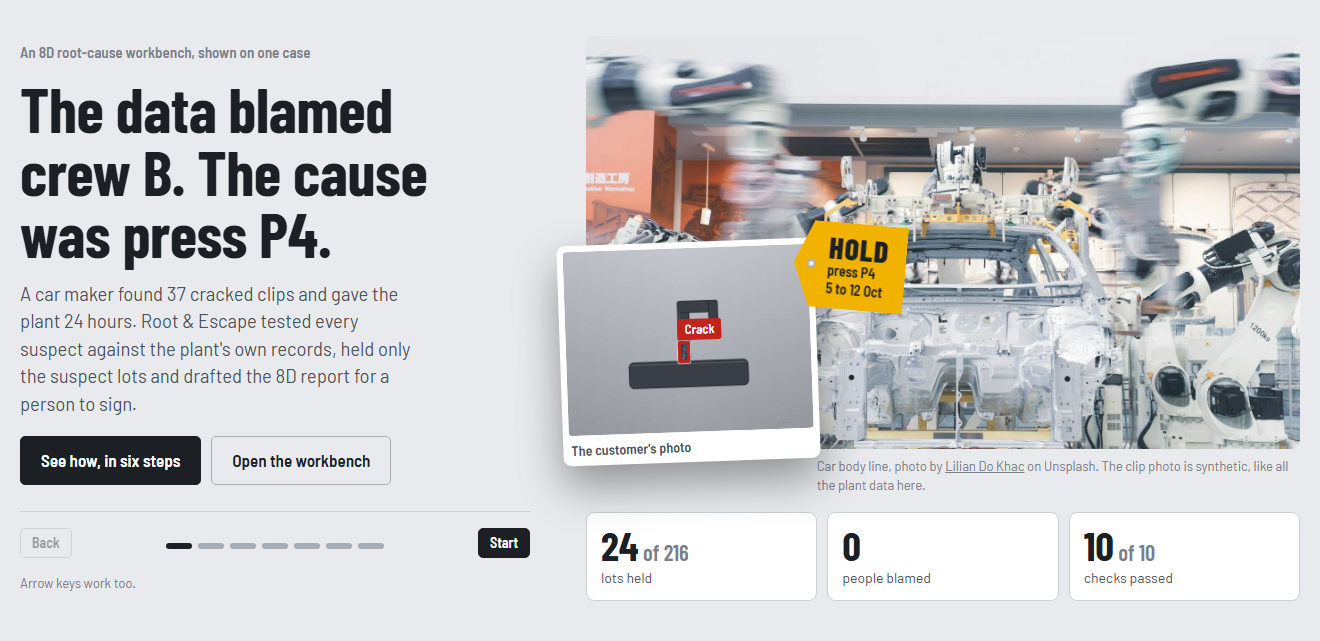
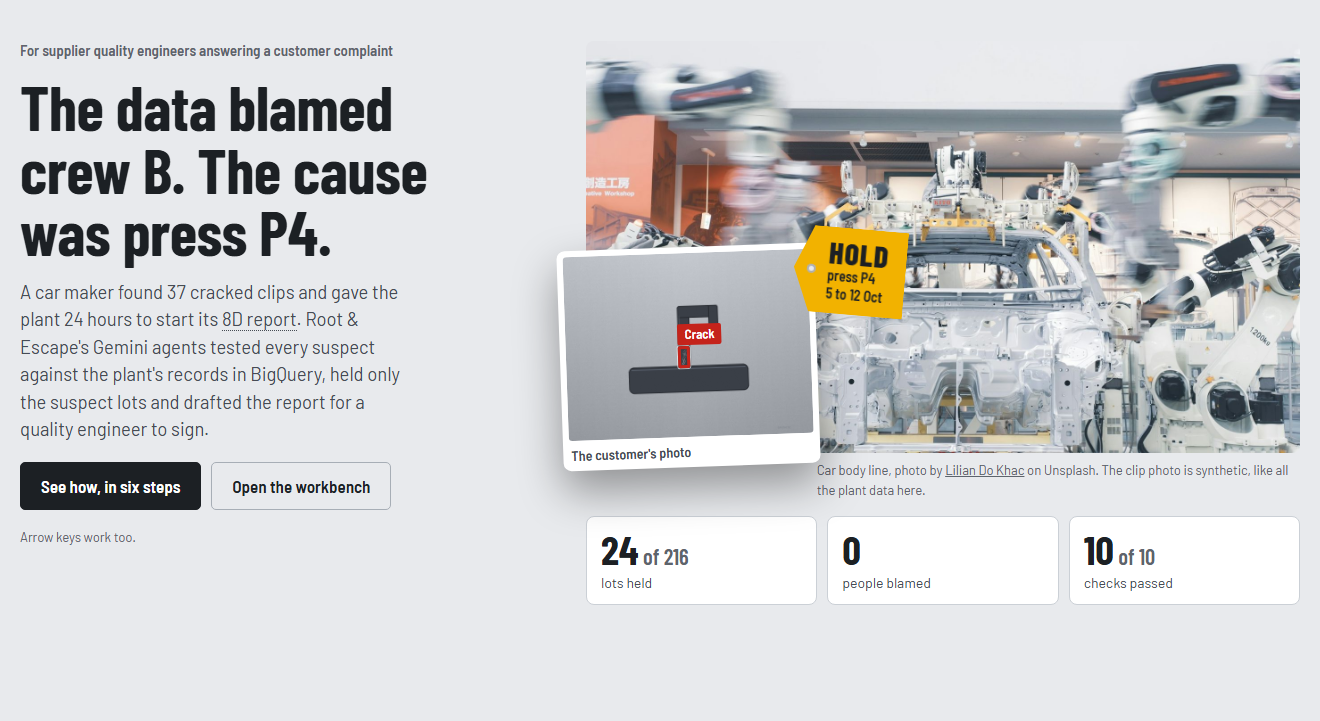
Fixes from a cold judge review of the front page
- Every step now says which agent and tool produced it, with its
  evidence ID, so the Gemini and BigQuery work is visible.
- Step 2 waits for the guess, and quotes the gap inside P4 (3.6% vs
  4.5%) with why it doesn't count.
- The nav stays in one place; the cover drops the duplicate Start and
  shows its buttons above the photo on phones; no sideways scroll.
- Control chart: tighter scale, a labelled crack-rate panel, a narrower
  drawing on phones.
- 8D sheet: whole first sentences, one D4 label, evidence chips and an
  English / Japanese toggle.
- Muted text and the dark-mode alarm labels meet contrast; the lot key
  follows the hold toggle; the live feed no longer shows raw verdicts.

diff --git a/web/story.js b/web/story.js
@@ -7,7 +7,9 @@
   const $ = (s) => document.querySelector(s);
   const esc = R.esc;
   const pc = (x, d = 1) => (x == null ? "–" : (x * 100).toFixed(d) + "%");
+  const pcs = (x) => (x == null ? "–" : (x * 100).toFixed(x < 0.01 ? 3 : 2) + "%");
   const num = (n) => Number(n).toLocaleString("en-US");
+  const nb = (s) => String(s).replace(/(\d) (°C|%)/g, "$1\u00a0$2");
   const still = () => window.matchMedia && matchMedia("(prefers-reduced-motion: reduce)").matches;
   const MONTHS = ["Jan", "Feb", "Mar", "Apr", "May", "Jun", "Jul", "Aug", "Sep", "Oct", "Nov", "Dec"];
   const day = (iso) => { const d = new Date(String(iso).slice(0, 10) + "T00:00:00Z"); return `${d.getUTCDate()} ${MONTHS[d.getUTCMonth()]}`; };
@@ -15,8 +17,32 @@
   const minus = (v) => (v < 0 ? "−" + Math.abs(v) : String(v));
   const CASE = "118";
 
-  const VIS = $("#st-vis"), H = $("#st-h"), P = $("#st-p"), ACT = $("#st-act"), COUNT = $("#st-count"), DOTS = $("#st-dots"), ART = $("#st-art");
-  let f = null, at = 0, split = false, guess = null, holdAll = false, mailLang = "en", series = null;
+  const VIS = $("#st-vis"), H = $("#st-h"), P = $("#st-p"), ACT = $("#st-act"), COUNT = $("#st-count"), DOTS = $("#st-dots"), ART = $("#st-art"), BY = $("#st-by");
+  let f = null, at = 0, split = false, guess = null, holdAll = false, mailLang = "en", series = null, sheetLang = "en";
+
+  // Which agent, tool and evidence produced what is on screen, so the Gen AI work is visible on every step.
+  function credit(i) {
+    const m = f.modes, model = esc(f.model || "Gemini"), code = (t) => `<code>${esc(t)}</code>`;
+    const ev = (id) => (id ? ` <a class="evref" href="#118" data-ev-open="${esc(id)}">${esc(id)}</a>` : "");
+    const inv = m.investigation === "gemini" ? `Investigator agent on ${model} through ADK` : "Investigator, scripted (Gemini off)";
+    return ({
+      1: m.intake === "gemini" ? `Intake agent on ${model}: translated the email, filled in the four facts and drew the box.` : "Intake: the stored reading (Gemini off).",
+      2: `${inv} called ${code("stratify")} by crew within press${ev(f.crewId)}.` + (f.bqml ? ` BigQuery ML contribution analysis had already pointed at press ${esc(f.press)}.` : ""),
+      3: `${inv} called ${code("param_excursions")}${ev(f.dewId)} and ${code("inspection_changes")}${ev(f.inspId)} for ${esc(f.press)}.`,
+      4: `${inv} called ${code("containment")} over the shipments table${ev(f.holdId)}.`,
+      5: `The Challenger is ${f.checks || "a set of"} rules in code. ` + (f.gemini ? `Claims that pass them also go to a critic on ${model}.` : "In the cloud, claims that pass also go to a Gemini critic."),
+      6: m.writer === "gemini" ? `Writer agent on ${model}: every percentage and lot count it wrote was checked against the evidence.` : "Writer: template text (Gemini off).",
+    })[i] || "";
+  }
+
+  // Step 2's caption: the gap inside the faulty press, in numbers, and why it doesn't count.
+  function insideP4() {
+    const o = f.cd.overall_contrast, st = f.cd.strata.find((s) => s.press === f.press), sh = shares().top;
+    const hi = st && st.cells.find((c) => c.crew === o.high);
+    const lo = st && st.cells.filter((c) => c.crew !== o.high).sort((a, b) => b.units - a.units)[0];
+    const gap = hi && lo ? ` On ${f.press}, crew ${lo.crew} is at ${pc(lo.rate)} and crew ${o.high} at ${pc(hi.rate)}, a gap the test can't tell from chance.` : "";
+    return `Every crew cracks clips on ${f.press} and hardly any elsewhere.${gap} Crew ${o.high} just runs ${f.press} the most: ${sh}% of its output.`;
+  }
 
   // ------------------------------------------------------------------------------------- facts from the run
   function facts(d) {
@@ -35,7 +61,9 @@
       dew: dew && ((dew.data || {}).params || []).find((x) => x.flag), dewId: dew && dew.id,
       insp: insp && ((insp.data || {}).sampling_changes || [])[0], inspId: insp && insp.id,
       hold: r.containment, occ: (dr.occurrence || {}).statement || "", escTxt: (dr.escape || {}).statement || "",
-      report: (r.report || {}).en || {}, checks: last.rules.length,
+      report: (r.report || {}).en || {}, reportJa: (r.report || {}).ja || null, checks: last.rules.length,
+      modes: r.modes || {}, bqml: !!(a.bqml_insights || []).length, holdId: (evOf("containment") || {}).id,
+      occEv: (dr.occurrence || {}).evidence || [], escEv: (dr.escape || {}).evidence || [],
       secs: r.duration_s, gemini: (r.modes || {}).investigation === "gemini", model: r.model,
     };
   }
@@ -43,10 +71,11 @@
   // ------------------------------------------------------------------------------------------- the steps
   const STEPS = [
     () => ({
-      count: "An 8D root-cause workbench, shown on one case",
+      count: "For supplier quality engineers answering a customer complaint",
       h: f.accused && f.press ? `The data blamed crew ${f.accused}. The cause was press ${f.press}.` : "Find the real cause, not the easy one.",
-      p: `A car maker found ${f.bad || "cracked"} cracked clips and gave the plant ${f.hours ? f.hours + " hours" : "a day"}. ` +
-        "Root & Escape tested every suspect against the plant's own records, held only the suspect lots and drafted the 8D report for a person to sign.",
+      p: `A car maker found ${esc(f.bad || "")} cracked clips and gave the plant ${f.hours ? esc(f.hours) + " hours" : "a day"} to start its ${R.term("8d", "8D report")}. ` +
+        "Root & Escape's Gemini agents tested every suspect against the plant's records in BigQuery, held only the suspect lots and drafted the report for a quality engineer to sign.",
+      html: true,
       act: `<button class="btn big" type="button" data-st="1">See how, in six steps</button>
             <button class="btn ghost big" type="button" data-bench="${CASE}">Open the workbench</button>`,
       draw: (el) => { el.innerHTML = hero() + coverFacts(); },
@@ -74,7 +103,7 @@
       return {
         count: "Step 2 of 6: the suspect",
         h: guess === "yes" ? "That's the trap. Split by press, the gap disappears." : guess === "no" ? "Good call. Split by press, the gap disappears." : "Split by press, the gap disappears.",
-        p: `Inside each press the crews crack at about the same rate. Crew ${o.high} just runs press ${f.press} most of the time: ${shares().top}% of its output.`,
+        p: insideP4(),
         act: `<button class="btn ghost" type="button" data-split="0">Show it by crew again</button>`,
         draw: (el) => { el.innerHTML = chart(); },
       };
@@ -121,7 +150,7 @@
       p: "In English and Japanese, with every claim linked to its evidence. A quality engineer signs before it goes out.",
       act: `<button class="btn big" type="button" data-bench="${CASE}">Open the workbench</button>
             <button class="btn ghost big" type="button" data-bench="${CASE}" data-run="1">Run it live${f.gemini ? " with Gemini" : ""}</button>
-            <span class="st-more">Two more cases: <button class="link" type="button" data-bench="124">burrs with two causes</button> and <button class="link" type="button" data-bench="121">scratches with no cause in the data</button>.</span>`,
+            <span class="st-more">Two more cases: <button class="link" type="button" data-bench="124">burrs with two causes</button> and <button class="link" type="button" data-bench="121">scratches with no cause in the data</button>. <button class="link" type="button" data-how>How the agents work</button></span>`,
       draw: (el) => { el.innerHTML = sheet(); },
     }),
   ];
@@ -212,7 +241,7 @@
         }
         acc += w;
       });
-      labels += `<span class="val on-pool" style="left:${mid}%;bottom:calc(${y(o.rate)}% + 6px)">${pc(o.rate, 2)}</span>` +
+      labels += `<span class="val on-pool" style="left:${mid}%;bottom:calc(${y(o.rate)}% + 6px)">${pcs(o.rate)}</span>` +
         `<span class="ax on-pool" style="left:${mid}%">Crew ${esc(cr)}</span>`;
       if (cr === accused) labels += `<span class="alarm on-pool" style="left:calc(${mid}% + ${W / 2}% + 8px);bottom:calc(${y(o.rate)}% - 13px)"><b>${cd.overall_contrast.ratio}×</b> crew ${esc(cd.overall_contrast.low)}'s rate</span>`;
     });
@@ -247,12 +276,12 @@
     const cl = d.control_mean, ucl = cl + 3 * d.control_sd, lcl = cl - 3 * d.control_sd, spec = series.spec_max;
     const t0 = pts[0][0], t1 = pts[pts.length - 1][0] + 864e5 / 3;
     const vals = pts.map((p) => p[1]).concat([ucl, lcl, spec ?? ucl]);
-    const v0 = Math.floor(Math.min(...vals) / 10) * 10, v1 = Math.ceil(Math.max(...vals) / 10) * 10;
-    const W = 640, L = 40, Rm = 92, T = 24, Hc = 170, gap = 26, Hb = 54;
+    const v0 = Math.floor(Math.min(...vals) / 5) * 5, v1 = Math.ceil(Math.max(...vals) / 5) * 5;
+    const narrow = el.clientWidth < 520, W = narrow ? 420 : 640, L = 34, Rm = narrow ? 76 : 92, T = 24, Hc = narrow ? 150 : 170, gap = 34, Hb = 54;
     const X = (t) => L + ((t - t0) / (t1 - t0)) * (W - L - Rm), Y = (v) => T + ((v1 - v) / (v1 - v0)) * Hc;
     const ws = Date.parse(f.c.date_code_start + "T00:00:00Z"), we = Date.parse(f.c.date_code_end + "T00:00:00Z") + 864e5;
     let s = `<rect class="win" x="${X(ws)}" y="${T - 4}" width="${X(we) - X(ws)}" height="${Hc + gap + Hb + 4}"/>`;
-    for (let v = v0; v <= v1; v += 10) s += `<line class="grid" x1="${L}" x2="${W - Rm}" y1="${Y(v)}" y2="${Y(v)}"/><text class="yl" x="${L - 6}" y="${Y(v) + 4}" text-anchor="end">${minus(v)}</text>`;
+    for (let v = Math.ceil(v0 / 10) * 10; v <= v1; v += 10) s += `<line class="grid" x1="${L}" x2="${W - Rm}" y1="${Y(v)}" y2="${Y(v)}"/><text class="yl" x="${L - 6}" y="${Y(v) + 4}" text-anchor="end">${minus(v)}</text>`;
     const ref = (v, cls, name) => `<line class="${cls}" x1="${L}" x2="${W - Rm}" y1="${Y(v)}" y2="${Y(v)}"/><text class="${cls}" x="${W - Rm + 6}" y="${Y(v) + 4}">${name}</text>`;
     s += ref(ucl, "ucl", `UCL ${minus(ucl.toFixed(1))}`) + ref(cl, "cl", `CL ${minus(cl.toFixed(1))}`) + ref(lcl, "ucl", `LCL ${minus(lcl.toFixed(1))}`);
     if (spec != null) s += ref(spec, "spec", `Limit ${minus(spec)}`);
@@ -260,14 +289,14 @@
     s += pts.map(([t, v]) => `<circle class="${v > ucl || v < lcl ? "out" : "in"}" cx="${X(t).toFixed(1)}" cy="${Y(v).toFixed(1)}" r="${v > ucl || v < lcl ? 3 : 1.8}"/>`).join("");
     const by = T + Hc + gap, dr = series.daily_rate.filter(([, r]) => r != null), rmax = Math.max(0.01, ...dr.map(([, r]) => r));
     const base = f.r.analysis && f.r.analysis.overall ? f.r.analysis.overall.rate_control : 0;
-    s += `<text class="lab" x="${L}" y="${by - 8}">${esc(f.press)} crack rate per day</text>`;
+    s += `<line class="sep" x1="${L}" x2="${W - Rm}" y1="${by - gap / 2 - 2}" y2="${by - gap / 2 - 2}"/><text class="lab" x="${L}" y="${by - 4}">${esc(f.press)} crack rate per day, peak ${pc(rmax)}</text>`;
     s += dr.map(([dt, r]) => { const x = X(Date.parse(dt + "T00:00:00Z")), h = (r / rmax) * Hb; return `<rect class="${base && r > 3 * base ? "hotbar" : "bar"}" x="${x.toFixed(1)}" y="${(by + Hb - h).toFixed(1)}" width="${Math.max(2, X(t0 + 864e5) - X(t0) - 1.5).toFixed(1)}" height="${h.toFixed(1)}"/>`; }).join("");
-    s += `<text class="lab" x="${W - Rm + 6}" y="${by + 10}">${pc(rmax, 0)}</text><line class="axis" x1="${L}" x2="${W - Rm}" y1="${by + Hb}" y2="${by + Hb}"/>`;
-    for (let t = Date.parse(new Date(t0).toISOString().slice(0, 10) + "T00:00:00Z") + 864e5; t < t1; t += 7 * 864e5) s += `<text class="xl" x="${X(t)}" y="${by + Hb + 16}" text-anchor="middle">${esc(day(new Date(t).toISOString()))}</text>`;
+    s += `<line class="axis" x1="${L}" x2="${W - Rm}" y1="${by + Hb}" y2="${by + Hb}"/>`;
+    for (let t = Date.parse(new Date(t0).toISOString().slice(0, 10) + "T00:00:00Z") + 864e5; t < t1; t += (narrow ? 14 : 7) * 864e5) s += `<text class="xl" x="${X(t)}" y="${by + Hb + 16}" text-anchor="middle">${esc(day(new Date(t).toISOString()))}</text>`;
     s += `<text class="win" x="${(X(ws) + X(we)) / 2}" y="${T - 8}" text-anchor="middle">date codes</text>`;
     el.innerHTML = `<p class="chart-t">${esc(f.press)} resin dryer dew point, °C, one reading a shift <a class="evref" href="#118" data-ev-open="${esc(f.dewId)}" title="Open this evidence in the workbench">${esc(f.dewId)}</a></p>
       <svg viewBox="0 0 ${W} ${by + Hb + 22}" role="img" aria-label="Control chart: ${esc(d.label)} on ${esc(f.press)} stays near ${minus(cl.toFixed(1))} until early October, then rises above the ${minus(spec)} limit to an average of ${minus(d.test_mean)} during the date codes, while the press's daily crack rate climbs.">${s}</svg>
-      <p class="cc-k"><span><i class="out"></i>out of control</span><span>Lower is drier. Wet resin moulds brittle clips.</span></p>`;
+      <p class="cc-k"><span><i class="out"></i>Reading outside the control limits</span><span>Lower is drier</span></p>`;
   }
 
   function checks() {
@@ -301,7 +330,7 @@
       return `<div class="lots-grid${holdAll ? " all" : ""}" style="--cols:${days * 3}">
         <p class="chart-t">Every lot made since ${esc(day(c.suspect_window[0]))}, one tile per press, day and shift</p>
         <div class="lg" role="img" aria-label="${c.blanket_lots} lots; ${c.targeted_lots} held, all from ${esc(c.segment_label)}"><span></span>${head}${cells}</div>
-        <p class="lg-k"><span><i class="held"></i>On hold</span><span><i></i>Released</span><span>Of the held lots, ${st.at_customer || 0} are already at the customer and ${st.in_transit || 0} in transit.</span></p>
+        <p class="lg-k"><span><i class="held"></i>On hold</span><span><i></i>Released</span><span class="if-t">Of the held lots, ${st.at_customer || 0} are already at the customer and ${st.in_transit || 0} in transit.</span><span class="if-a">A blanket hold stops all ${c.blanket_lots} lots, ${num(c.blanket_parts)} parts, including every press that was fine.</span></p>
       </div>`;
     }
     for (let i = 0; i < c.blanket_lots; i++) cells += `<i class="${i < c.targeted_lots ? "held" : ""}" style="--d:${i}"></i>`;
@@ -331,16 +360,21 @@
 
   function sheet() {
     // first sentence of each section, without a leading "Team:" style label that would repeat the row name
-    const rep = f.report, cut = (s) => {
-      s = String(s || "").replace(/\s+/g, " ").replace(/^[A-Z][A-Za-z ]{2,28}:\s+(?=\S)/, "");
+    const ja = sheetLang === "ja" && f.reportJa, rep = ja ? f.reportJa : f.report, cut = (s) => {
+      s = String(s || "").replace(/\s+/g, " ").replace(ja ? /^[^：:、。]{1,8}[：:]\s*/ : /^[A-Z][A-Za-z ]{2,28}:\s+(?=\S)/, "");
       s = s.charAt(0).toUpperCase() + s.slice(1);
-      const m = s.match(/^.{20,105}?[.;](\s|$)/);
-      return m ? m[0].trim().replace(/;$/, ".") : s.length > 105 ? s.slice(0, 103) + "…" : s;
+      const m = s.match(ja ? /^.{12,90}?。/ : /^.{20,170}?[.;](\s|$)/);
+      if (m) return nb(m[0].trim().replace(/;$/, "."));
+      return nb(s.length > 170 ? s.slice(0, s.lastIndexOf(" ", 168)) + "…" : s);
     };
-    const names = { D1: "Team", D2: "Problem", D3: "Containment", D4: "Root cause", D4_escape: "Escape", D5: "Actions", D6: "Verify", D7: "Prevent", D8: "Close" };
+    const names = ja ? { D1: "チーム", D2: "問題", D3: "暫定処置", D4: "発生原因", D4_escape: "流出原因", D5: "是正処置", D6: "効果確認", D7: "再発防止", D8: "称賛" }
+      : { D1: "Team", D2: "Problem", D3: "Containment", D4: "Why it happened", D4_escape: "Why it got out", D5: "Actions", D6: "Verify", D7: "Prevent", D8: "Close" };
+    const chips = { D3: [f.holdId], D4: f.occEv, D4_escape: f.escEv };
     const part = (String(f.c.title).match(/\b[A-Z]{1,4}-\d{2,5}\b/) || [""])[0];
-    return `<div class="sheet">
-      <ol>${Object.keys(names).filter((k) => rep[k]).map((k) => `<li><b>${k === "D4_escape" ? "D4" : k}</b><span><em>${names[k]}.</em> ${esc(cut(rep[k]))}</span></li>`).join("")}</ol>
+    return `<div class="sheet"${ja ? ' lang="ja"' : ""}>
+      ${f.reportJa ? `<div class="seg small" role="group" aria-label="Report language"><button type="button" class="${ja ? "" : "on"}" data-sheet="en" aria-pressed="${!ja}">English</button><button type="button" class="${ja ? "on" : ""}" data-sheet="ja" aria-pressed="${!!ja}">日本語</button></div>` : ""}
+      <ol>${Object.keys(names).filter((k) => rep[k]).map((k) => `<li><b>${k === "D4_escape" ? "" : k}</b><span><em>${names[k]}${ja ? "：" : "."}</em>${ja ? "" : " "}${esc(cut(rep[k]))}` +
+        `${(chips[k] || []).filter(Boolean).map((id) => ` <a class="evref" href="#118" data-ev-open="${esc(id)}">${esc(id)}</a>`).join("")}</span></li>`).join("")}</ol>
       <table class="title-block"><tr><th>Document</th><td>8D-${CASE}</td><th>Part</th><td>${esc(part || "–")}</td><th>Customer</th><td>${esc(f.c.customer)}</td></tr>
         <tr><th>Issued</th><td>${esc(day(f.r.created_at))}</td><th>Status</th><td>Draft</td><th>Approved by</th><td class="sig"></td></tr></table>
     </div>`;
@@ -352,7 +386,9 @@
     const s = STEPS[at]();
     COUNT.textContent = s.count;
     H.textContent = s.h;
-    P.textContent = s.p;
+    if (s.html) P.innerHTML = s.p; else P.textContent = s.p;
+    BY.innerHTML = credit(at);
+    BY.hidden = !BY.innerHTML;
     ACT.innerHTML = s.act;
     ART.innerHTML = s.art || "";
     ART.hidden = !s.art;
@@ -361,7 +397,8 @@
     if (still() || !VIS.childElementCount) swap(); else { VIS.classList.add("out"); setTimeout(swap, 140); }
     DOTS.innerHTML = STEPS.map((_, k) => `<li><button type="button" data-st="${k}" class="${k === at ? "on" : k < at ? "seen" : ""}" aria-label="${k === 0 ? "Start" : "Step " + k}"${k === at ? ' aria-current="step"' : ""}></button></li>`).join("");
     $("#st-back").disabled = at === 0;
-    $("#st-next").textContent = at === STEPS.length - 1 ? "Open the workbench" : at === 0 ? "Start" : "Next";
+    $("#st-next").textContent = at === STEPS.length - 1 ? "Workbench" : "Next";
+    $("#st-next").hidden = at === 2 && !!f.cd && !split;  // the two answers are the way on
     if (focus) H.focus({ preventScroll: true });
   }
 
@@ -376,6 +413,7 @@
     if (!v) guess = null;
     const s = STEPS[2]();
     H.textContent = s.h; P.textContent = s.p; ACT.innerHTML = s.act;
+    $("#st-next").hidden = !!f.cd && !v;
     const ch = VIS.querySelector(".chart");
     if (ch) ch.classList.toggle("is-split", v); else s.draw(VIS);
   }
@@ -406,7 +444,7 @@
   }
 
   document.addEventListener("click", (e) => {
-    const t = e.target.closest("[data-st],[data-split],[data-guess],[data-hold],[data-mail],[data-claim],[data-ev-open]");
+    const t = e.target.closest("[data-st],[data-split],[data-guess],[data-hold],[data-mail],[data-claim],[data-ev-open],[data-sheet],[data-how]");
     if (!t || !t.closest("#story")) return;
     if (t.dataset.st != null) show(Number(t.dataset.st), { focus: true });
     else if (t.dataset.guess) { guess = t.dataset.guess; setSplit(true); }
@@ -414,6 +452,8 @@
     else if (t.dataset.hold != null) setHold(t.dataset.hold === "1");
     else if (t.dataset.mail) { mailLang = t.dataset.mail; show(at); }
     else if (t.dataset.claim) sendClaim(t.dataset.claim);
+    else if (t.dataset.sheet) { sheetLang = t.dataset.sheet; VIS.innerHTML = sheet(); }
+    else if (t.dataset.how != null) $("#how-btn").click();
     else if (t.dataset.evOpen) { e.preventDefault(); R.openCase(CASE, { ev: t.dataset.evOpen }); }
   });
   $("#st-next").addEventListener("click", next);

diff --git a/web/styles.css b/web/styles.css
@@ -1,9 +1,9 @@
 /* Grey interface, colour only for states (the high-performance HMI convention): red for an alarm or a rejection,
    yellow for a hold, green for OK. Barlow throughout; monospace only for real IDs such as lot and evidence numbers. */
 :root{
-  --bg:#E8EAED; --panel:#FFFFFF; --ink:#1C2024; --ink-2:#4C535B; --ink-3:#7A818A; --line:#CBD0D6; --line-2:#A7AEB6;
+  --bg:#E8EAED; --panel:#FFFFFF; --ink:#1C2024; --ink-2:#464C54; --ink-3:#5D646C; --line:#CBD0D6; --line-2:#A7AEB6;
   --red:#C4231B; --red-soft:#F7DEDB; --amber:#F2B200; --amber-ink:#7A5800; --amber-soft:#FCF0C8; --green:#1C784A; --green-soft:#DCEEE3;
-  --crewA:#8B9199; --crewB:#2A2F35; --crewC:#C2C7CD; --btn:#1C2024; --btn-hover:#3B4249; --on-btn:#FFFFFF;
+  --crewA:#8B9199; --crewB:#2A2F35; --crewC:#C2C7CD; --btn:#1C2024; --btn-hover:#3B4249; --on-btn:#FFFFFF; --on-red:#FFFFFF;
   --f:"Barlow","Segoe UI",system-ui,sans-serif; --fc:"Barlow Condensed","Arial Narrow",sans-serif; --fs:"Barlow Semi Condensed","Barlow",sans-serif;
   --id:ui-monospace,"Cascadia Mono",Consolas,"SF Mono",Menlo,monospace; --ja:"Noto Sans JP","Hiragino Sans","Yu Gothic",sans-serif;
   --ease:cubic-bezier(.65,0,.35,1);
@@ -14,9 +14,9 @@
 }
 @media (prefers-color-scheme: dark){
   :root{ color-scheme:dark;
-    --bg:#14171A; --panel:#1D2125; --ink:#E7E9EB; --ink-2:#AEB4BB; --ink-3:#848B93; --line:#30363C; --line-2:#4A525A;
+    --bg:#14171A; --panel:#1D2125; --ink:#E7E9EB; --ink-2:#B6BCC2; --ink-3:#979EA6; --line:#30363C; --line-2:#4A525A;
     --red:#FF6A5F; --red-soft:#3D1D1A; --amber:#F5BE2E; --amber-ink:#F5BE2E; --amber-soft:#3A2F12; --green:#58C88A; --green-soft:#163222;
-    --crewA:#8D949B; --crewB:#E7E9EB; --crewC:#4D545B; --btn:#E7E9EB; --btn-hover:#C9CDD2; --on-btn:#14171A;
+    --crewA:#8D949B; --crewB:#E7E9EB; --crewC:#4D545B; --btn:#E7E9EB; --btn-hover:#C9CDD2; --on-btn:#14171A; --on-red:#14171A;
     --code:#171A1D; --heat0:#262B30; --heat1:#4E2622; --heat2:#8C3229; --heat4:#FF6A5F; }
 }
 *{box-sizing:border-box}
@@ -59,10 +59,14 @@ html[data-view="story"] .shell,html[data-view="story"] .foot{display:none}
 html[data-view="bench"] .story{display:none}
 
 /* ------------------------------------------------------------------ the story */
-.story{min-height:calc(100svh - 61px);display:flex;align-items:center}
-.st-wrap{width:100%;max-width:1320px;margin:0 auto;display:grid;grid-template-columns:minmax(300px,5fr) minmax(0,7fr);gap:56px;align-items:center;
-  padding:36px max(20px,env(safe-area-inset-right)) 40px max(20px,env(safe-area-inset-left))}
-.st-copy{display:flex;flex-direction:column;gap:16px}
+.story{min-height:calc(100svh - 61px)}
+.st-wrap{width:100%;max-width:1320px;margin:0 auto;display:grid;grid-template-columns:minmax(300px,5fr) minmax(0,7fr);gap:56px;align-items:start;
+  padding:clamp(24px,5vh,56px) max(20px,env(safe-area-inset-right)) 40px max(20px,env(safe-area-inset-left))}
+.st-copy{display:flex;flex-direction:column;gap:16px;min-height:min(640px,calc(100svh - 140px))}
+.st-copy .st-nav{margin-top:auto}
+#story[data-step="0"] .st-nav{display:none}
+.st-by{margin:0;font-size:14px;line-height:1.45;color:var(--ink-2);border-left:3px solid var(--amber);padding:2px 0 2px 10px;max-width:46ch}
+.st-by code{font:500 12.5px var(--id)}
 .st-count{margin:0;font:600 15px/1.2 var(--fs);color:var(--ink-3)}
 .st-h{font:700 clamp(38px,4.6vw,66px)/1 var(--fc);letter-spacing:-.005em;outline:none}
 .st-p{margin:0;font-size:clamp(17px,1.35vw,20px);line-height:1.5;color:var(--ink-2);max-width:38ch}
@@ -71,8 +75,9 @@ html[data-view="bench"] .story{display:none}
 .st-num{font:600 15px var(--fs);color:var(--ink-2)}
 .st-more{flex-basis:100%;font-size:15px;color:var(--ink-2)}
 .st-more .link{font-size:15px}
-.st-nav{display:flex;align-items:center;gap:14px;margin-top:8px;padding-top:16px;border-top:1px solid var(--line)}
-.st-dots{list-style:none;display:flex;gap:6px;margin:0;padding:0;flex:1;justify-content:center}
+.st-nav{display:flex;align-items:center;gap:14px;padding-top:16px;border-top:1px solid var(--line)}
+.st-nav .btn{white-space:nowrap;flex:none}
+.st-dots{list-style:none;display:flex;gap:6px;margin:0;padding:0;flex:1;min-width:0;justify-content:center}
 .st-dots button{width:26px;height:6px;border:0;border-radius:3px;padding:0;background:var(--line-2);cursor:pointer;transition:background .2s}
 .st-dots button.seen{background:var(--ink-3)}
 .st-dots button.on{background:var(--ink)}
@@ -80,7 +85,7 @@ html[data-view="bench"] .story{display:none}
 .st-vis{min-width:0;transition:opacity .14s}
 .st-vis.out{opacity:0}
 .chart-t{margin:0 0 8px;font:600 15px/1.3 var(--fs);color:var(--ink-2);display:flex;gap:8px;align-items:baseline;flex-wrap:wrap}
-.evref{font:500 12px var(--id);color:var(--ink-2);background:var(--bg);padding:2px 6px;border-radius:3px;text-decoration:none}
+.evref{font:500 12px var(--id);color:var(--ink-2);background:var(--bg);padding:2px 6px;border-radius:3px;text-decoration:none;white-space:nowrap}
 .evref:hover{background:var(--ink);color:var(--panel)}
 .panel,.mail,.cc,.checks,.lots-grid,.claim,.sheet{background:var(--panel);border:1px solid var(--line);border-radius:8px}
 
@@ -103,7 +108,7 @@ html[data-view="bench"] .story{display:none}
 .st-ph{position:relative;aspect-ratio:4/3;overflow:hidden;background:#2B2F33;border-radius:8px}
 .st-ph>img{width:100%;height:100%;object-fit:cover;display:block}
 .st-box{position:absolute;border:3px solid var(--red);border-radius:2px;box-shadow:0 0 0 1px rgba(255,255,255,.6)}
-.st-box::after{content:"Crack";position:absolute;left:-3px;bottom:100%;margin-bottom:4px;font:600 13px/1 var(--fs);background:var(--red);color:#fff;padding:4px 7px;border-radius:2px;white-space:nowrap}
+.st-box::after{content:"Crack";position:absolute;left:-3px;bottom:100%;margin-bottom:4px;font:600 13px/1 var(--fs);background:var(--red);color:var(--on-red);padding:4px 7px;border-radius:2px;white-space:nowrap}
 .st-box.draw{animation:boxin .6s var(--ease) .3s both}
 @keyframes boxin{from{opacity:0;transform:scale(2)}to{opacity:1;transform:none}}
 .st-gold{position:absolute;right:12px;top:12px;width:27%;background:var(--panel);padding:4px;border-radius:6px;box-shadow:0 6px 18px rgba(0,0,0,.35)}
@@ -154,9 +159,9 @@ html[data-view="bench"] .story{display:none}
 .ax{position:absolute;top:100%;margin-top:9px;transform:translateX(-50%);font:600 15px/1 var(--fs);white-space:nowrap}
 .ax.hot{color:var(--red);font-weight:700}
 .alarm{position:absolute;display:flex;align-items:center;gap:5px;font:600 13px/1 var(--fs);color:var(--red);white-space:nowrap}
-.alarm b{background:var(--red);color:#fff;font:700 14px/1 var(--fs);padding:5px 7px;border-radius:3px}
+.alarm b{background:var(--red);color:var(--on-red);font:700 14px/1 var(--fs);padding:5px 7px;border-radius:3px}
 .plot .on-split{opacity:0;transition:opacity .35s}
-.is-split .plot .on-split{opacity:1;transition-delay:1s}
+.is-split .plot .on-split{opacity:1;transition-delay:.7s}
 .plot .on-pool{transition:opacity .25s}
 .is-split .plot .on-pool{opacity:0}
 .chart-t .on-split,.legend .on-split{display:none}
@@ -187,6 +192,7 @@ html[data-view="bench"] .story{display:none}
 .cc rect.bar{fill:var(--line-2)}
 .cc rect.hotbar{fill:var(--red)}
 .cc line.axis{stroke:var(--ink);stroke-width:1.2}
+.cc line.sep{stroke:var(--line);stroke-width:1}
 .cc text.lab{font-weight:600;fill:var(--ink-2)}
 .cc text.xl{fill:var(--ink-3)}
 .cc-k{display:flex;justify-content:space-between;flex-wrap:wrap;gap:4px 14px;margin:4px 0 0;font-size:13.5px;color:var(--ink-2)}
@@ -213,6 +219,8 @@ html[data-view="bench"] .story{display:none}
 .lg-k{display:flex;flex-wrap:wrap;gap:6px 18px;margin:12px 0 0;font-size:14.5px;color:var(--ink-2)}
 .lg-k i{display:inline-block;width:12px;height:12px;border-radius:2px;background:var(--heat0);margin-right:6px;vertical-align:-1px;box-shadow:inset 0 0 0 1px var(--line)}
 .lg-k i.held{background:var(--amber)}
+.lg-k .if-a,.lots-grid.all .lg-k .if-t{display:none}
+.lots-grid.all .lg-k .if-a{display:inline;color:var(--ink)}
 @keyframes pop{from{opacity:0;transform:scale(.3)}}
 
 /* claim and verdict */
@@ -231,9 +239,12 @@ table.inside thead th.acc{color:var(--ink)}
 table.inside tbody th{font:600 14px var(--fs);color:var(--ink-2)}
 
 /* the 8D sheet, with a drawing-style title block */
-.sheet{padding:18px 20px 16px;max-width:640px}
-.sheet ol{list-style:none;margin:0;padding:0}
-.sheet li{display:grid;grid-template-columns:34px minmax(0,1fr);gap:8px;padding:6px 0;border-bottom:1px solid var(--bg);font-size:14.5px;line-height:1.4}
+.sheet{padding:18px 20px 16px;position:relative}
+.sheet .seg{position:absolute;top:12px;right:12px}
+.seg.small button{padding:5px 9px;font-size:13.5px}
+.sheet[lang="ja"] li{font-family:var(--ja);font-size:14px}
+.sheet ol{list-style:none;margin:30px 0 0;padding:0}
+.sheet li{display:grid;grid-template-columns:30px minmax(0,1fr);gap:8px;padding:6px 0;border-bottom:1px solid var(--bg);font-size:14.5px;line-height:1.4}
 .sheet li b{font:700 15px/1.4 var(--fc);color:var(--ink-3)}
 .sheet li em{font-style:normal;font-weight:600}
 table.title-block{width:100%;border-collapse:collapse;margin-top:14px;font-size:13.5px;border:1.5px solid var(--ink)}
@@ -246,7 +257,9 @@ table.title-block{width:100%;border-collapse:collapse;margin-top:14px;font-size:
   .story{align-items:flex-start;min-height:0}
   .st-wrap{grid-template-columns:minmax(0,1fr);gap:16px;padding-top:22px;padding-bottom:0}
   .st-copy{display:contents}
-  .st-count{order:1}.st-h{order:2}.st-p{order:3}.st-vis{order:4}.st-act{order:5}.st-nav{order:6}.st-keys{display:none}
+  .st-count{order:1}.st-h{order:2}.st-p{order:3}.st-vis{order:4}.st-act{order:5}.st-by{order:6}.st-nav{order:7}.st-keys{display:none}
+  #story[data-step="0"] .st-act{order:3}
+  .st-copy{min-height:0}
   .st-nav{position:sticky;bottom:0;background:var(--bg);margin:0 -4px;padding:12px 4px calc(12px + env(safe-area-inset-bottom));z-index:5}
   .hold-tag{right:8px}
   .st-art{order:3}
@@ -274,6 +287,8 @@ table.title-block{width:100%;border-collapse:collapse;margin-top:14px;font-size:
   .st-facts dt{font-size:13px}
   .status .pill:not(#mode-pill){display:none}
   .views a,.views .link{padding:8px 7px}
+  .st-dots{gap:4px}.st-dots button{width:16px}.st-dots button.on{width:24px}
+  .st-hero-img{aspect-ratio:16/10}
   .btn.big{padding:12px 16px;font-size:16px}
   .title-block th:nth-child(5),.title-block td:nth-child(6){display:none}
 }

diff --git a/web/app.js b/web/app.js
@@ -292,7 +292,7 @@
       ? { D1: "D1 チーム", D2: "D2 問題", D3: "D3 暫定処置", D4: "D4 発生原因", D4_escape: "D4 流出原因", D5: "D5 是正処置", D6: "D6 効果確認", D7: "D7 再発防止", D8: "D8 称賛" }
       : { D1: "D1 Team", D2: "D2 Problem", D3: "D3 Containment", D4: "D4 Occurrence", D4_escape: "D4 Escape", D5: "D5 Actions", D6: "D6 Verify", D7: "D7 Prevent", D8: "D8 Close" };
     el.className = "report " + reportLang;
-    el.innerHTML = Object.keys(names).filter((k) => sec[k]).map((k) => `<dt>${esc(names[k])}</dt><dd>${esc(sec[k])}</dd>`).join("");
+    el.innerHTML = Object.keys(names).filter((k) => sec[k]).map((k) => `<dt>${esc(names[k])}</dt><dd>${esc(sec[k]).replace(/(\d) (°C|%)/g, "$1&nbsp;$2")}</dd>`).join("");
   }
   function setLang(l) {
     reportLang = l;
@@ -468,7 +468,7 @@
       else if (e.type === "intake") add(`<b>intake</b> ${esc(e.intake.photo_observation || "")}`);
       else if (e.type === "call") add(`<b>Gemini →</b> ${esc(e.name)}(${esc(Object.entries(e.args || {}).map(([k, v]) => k + "=" + (Array.isArray(v) ? v.join("|") : v)).join(", "))})`);
       else if (e.type === "evidence") add(`<b>${esc(e.item.id)}</b> ${esc(e.item.summary)}`);
-      else if (e.type === "challenger") { mark("challenger"); add(`<b>challenger</b> round ${e.round.round}: ${esc(e.round.verdict)}${e.round.verdict === "REJECTED" ? " · " + esc(e.round.rules.filter((x) => !x.passed).map((x) => ruleName(x.rule)).join(", ")) : ""}`); }
+      else if (e.type === "challenger") { mark("challenger"); add(`<b>challenger</b> round ${e.round.round}: ${e.round.verdict === "REJECTED" ? "rejected" : "approved for review"}${e.round.verdict === "REJECTED" ? " · " + esc(e.round.rules.filter((x) => !x.passed).map((x) => ruleName(x.rule)).join(", ")) : ""}`); }
       else if (e.type === "done") {
         document.querySelectorAll(".stages li").forEach((li) => li.className = "done");
         if (state.current === id) { state.data.result = e.result; state.data.approvals = {}; render(); if (RAE.onResult) RAE.onResult(id, state.data); }  // a new run needs new signatures
@@ -712,7 +712,7 @@
     if (e.target.closest(".brand")) { e.preventDefault(); showStory(0); }
   });
 
-  const RAE = window.RAE = { api, esc, ruleName, openCase, showStory, onResult: null, storyGo: null };  // story.js sets the last two
+  const RAE = window.RAE = { api, esc, ruleName, term, openCase, showStory, onResult: null, storyGo: null };  // story.js sets the last two
   setView(view());
   loadMeta();
   loadCases();

diff --git a/web/index.html b/web/index.html
@@ -34,6 +34,7 @@
       <p class="st-p" id="st-p"></p>
       <figure class="st-art" id="st-art" hidden></figure>
       <div class="st-act" id="st-act"></div>
+      <p class="st-by" id="st-by" hidden></p>
       <div class="st-nav">
         <button class="btn ghost small" id="st-back" type="button">Back</button>
         <ol class="st-dots" id="st-dots" aria-label="Steps"></ol>
